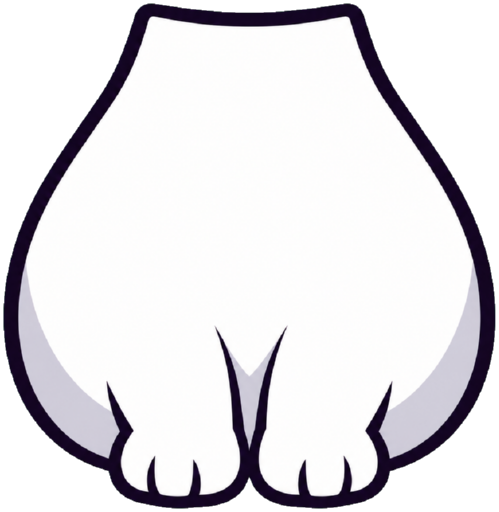
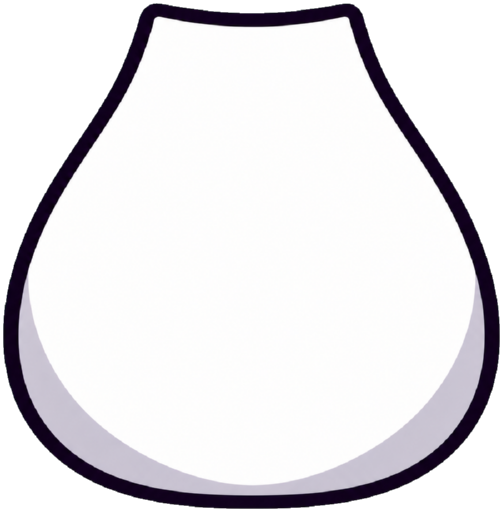
Арт: тело без лап и хвост; отдельные передние лапы и ходьба
Кот идёт к банке и обратно шагами (лапы по очереди, подпрыгивание, покачивание) вместо прыжка.
Пока нет cat_leg.png — временные лапы. Числа ходьбы в CONFIG.anim.

Changed region(s): [[0.0, 0.0, 1.0, 1.0], [0.481, 0.0, 0.6012, 0.0312]]

diff --git a/src/view/CatView.js b/src/view/CatView.js
@@ -26,6 +26,7 @@ export class CatView extends Phaser.GameObjects.Container {
         drawFallback.chest(g);
         this.body.add(g);
       }
+      this.legs = [-1, 1].map((side) => this.makeLeg(side));
     }
     this.head = scene.add.container(C.head.x, C.head.y);
     this.add(this.head);
@@ -55,6 +56,30 @@ export class CatView extends Phaser.GameObjects.Container {
     drawFallback[name](g, this.fill);
     box.add(g);
     return box;
+  }
+
+  // Передняя лапа: контейнер в «плече» (ось шага), лапа свисает вниз. Правая — зеркальная копия левой.
+  makeLeg(side) {
+    const box = this.scene.add.container(side * C.leg.x, C.leg.y);
+    this.add(box);
+    const img = this.useArt ? this.image('cat_leg', C.leg, true, box) : null;
+    if (img) {
+      if (side > 0) img.setFlipX(true);
+    } else {
+      const g = this.scene.add.graphics();
+      drawFallback.leg(g, this.fill);
+      if (side > 0) g.setScale(-1, 1);
+      box.add(g);
+    }
+    return box;
+  }
+
+  resetLegs() {
+    if (!this.legs) return;
+    this.legs.forEach((leg) => {
+      leg.y = C.leg.y;
+      leg.angle = 0;
+    });
   }
 
   buildHead() {
@@ -166,6 +191,7 @@ export class CatView extends Phaser.GameObjects.Container {
     this.head.angle = 0;
     this.eyes.setScale(1);
     this.angle = 0;
+    this.resetLegs();
     this.setScale(this.baseScale);
     this.setMouth(false);
     if (this.reacting) {
@@ -312,6 +338,39 @@ export class CatView extends Phaser.GameObjects.Container {
     this.track(this.scene.time.delayedCall(CONFIG.anim.meowDuration, () => this.setMouth(false)));
   }
 
+  // Идёт в точку: лапы по очереди шагают, тело подпрыгивает на каждом шаге и чуть покачивается.
+  walkTo(x, y, onDone) {
+    const A = CONFIG.anim;
+    const x0 = this.x;
+    const y0 = this.y;
+    const dist = Phaser.Math.Distance.Between(x0, y0, x, y);
+    const duration = Math.max(A.walkMinDuration, (dist / A.walkSpeed) * 1000);
+    const steps = Math.max(2, Math.round(duration / A.stepDuration));
+    this.track(this.scene.tweens.add({
+      targets: this, x, duration, ease: 'Linear',
+      onUpdate: (tw) => {
+        const ph = tw.progress * steps; // номер шага с дробной частью
+        const f = ph % 1;
+        const lift = Math.sin(f * Math.PI);
+        this.y = y0 + (y - y0) * tw.progress - lift * A.walkBob * this.baseScale;
+        this.angle = (Math.floor(ph) % 2 ? 1 : -1) * lift * A.walkSway;
+        const k = Math.floor(ph) % 2; // какая лапа сейчас в воздухе
+        this.legs?.forEach((leg, i) => {
+          const up = i === k ? lift : 0;
+          leg.y = C.leg.y - up * A.stepLift;
+          leg.angle = (i ? 1 : -1) * up * A.stepAngle;
+        });
+      },
+      onComplete: () => {
+        this.y = y;
+        this.angle = 0;
+        this.resetLegs();
+        this.squash();
+        if (onDone) onDone();
+      },
+    }));
+  }
+
   // Прыжок дугой в точку.
   hopTo(x, y, onDone) {
     const A = CONFIG.anim;
@@ -414,6 +473,17 @@ const drawFallback = {
     g.fillCircle(0, 0, 34);
     g.strokeCircle(0, 0, 34);
     drawFallback.muzzle(g);
+  },
+  // лапа свисает вниз от «плеча» (0, 0)
+  leg(g, fill) {
+    g.lineStyle(4, O(), 1).fillStyle(fill, 1);
+    g.fillRoundedRect(-7, -4, 14, 24, 6);
+    g.strokeRoundedRect(-7, -4, 14, 24, 6);
+    g.fillEllipse(0, 20, 18, 11);
+    g.strokeEllipse(0, 20, 18, 11);
+    g.lineStyle(2, O(), 1);
+    g.lineBetween(-3, 19, -3, 24);
+    g.lineBetween(3, 19, 3, 24);
   },
   muzzle(g) {
     g.fillStyle(0xffffff, 0.85);

diff --git a/src/config.js b/src/config.js
@@ -91,6 +91,15 @@ export const CONFIG = {
     blinkMax: 5000,
     blinkDuration: 130,
 
+    // кот: ходьба
+    walkSpeed: 520,       // px/с
+    walkMinDuration: 350,
+    stepDuration: 150,    // один шаг
+    stepLift: 7,          // насколько поднимается лапа
+    stepAngle: 10,        // наклон лапы при шаге, градусы
+    walkBob: 4,           // подпрыгивание тела на шаге
+    walkSway: 3,          // покачивание тела, градусы
+
     // кот: кормление
     meowDuration: 260,
     hopHeight: 90,        // высота прыжка
@@ -122,8 +131,9 @@ export const CONFIG = {
 
   // Части кота. x/y — где часть на коте; artScale/artX/artY — подгонка картинок из src/assets.
   cat: {
-    tail: { x: 36, y: 56, artScale: 0.2, originX: 0.3, originY: 1 },
+    tail: { x: 22, y: 50, artScale: 0.12, originX: 0.22, originY: 0.95 }, // x/y — основание хвоста
     body: { x: 0, y: 58, artScale: 0.13, originX: 0.5, originY: 1 }, // y — низ лап
+    leg: { x: 10, y: 36, artScale: 0.1, originX: 0.5, originY: 0.06 },  // x/y — «плечо» левой лапы, правая зеркально
     head: { x: 0, y: -22, artScale: 0.16, artY: -12 },
     eyes: { x: 0, y: -6, artScale: 0.16 },
     mouth: { x: 0, y: 10, artScale: 0.14 },

diff --git a/src/scenes/GameScene.js b/src/scenes/GameScene.js
@@ -362,7 +362,7 @@ export class GameScene extends Phaser.Scene {
     cat.meow();
 
     const eatY = r.top - CONFIG.jar.rimHeight * this.dim.scale - A.catEatOffsetY * cat.baseScale;
-    cat.hopTo(r.x, eatY, () => {
+    cat.walkTo(r.x, eatY, () => {
       cat.setMood('happy');
       const food = this.portions[bowl].slice().reverse(); // сверху вниз
       cat.eat(food.length, (k) => {
@@ -375,7 +375,7 @@ export class GameScene extends Phaser.Scene {
       }, () => {
         sfx(this, 'sfx_purr');
         this.fxHearts.explode(A.hearts, cat.x, cat.y - 60 * cat.baseScale);
-        cat.track(this.time.delayedCall(A.catReturnDelay, () => cat.hopTo(cat.home.x, cat.home.y)));
+        cat.track(this.time.delayedCall(A.catReturnDelay, () => cat.walkTo(cat.home.x, cat.home.y)));
       });
     });
   }
@@ -391,7 +391,7 @@ export class GameScene extends Phaser.Scene {
       this.tweens.killTweensOf(p);
       p.setScale(1).setAlpha(1);
     });
-    cat.hopTo(cat.home.x, cat.home.y, () => cat.setMood('open'));
+    cat.walkTo(cat.home.x, cat.home.y, () => cat.setMood('open'));
   }
 
   // ---------- победа ----------
